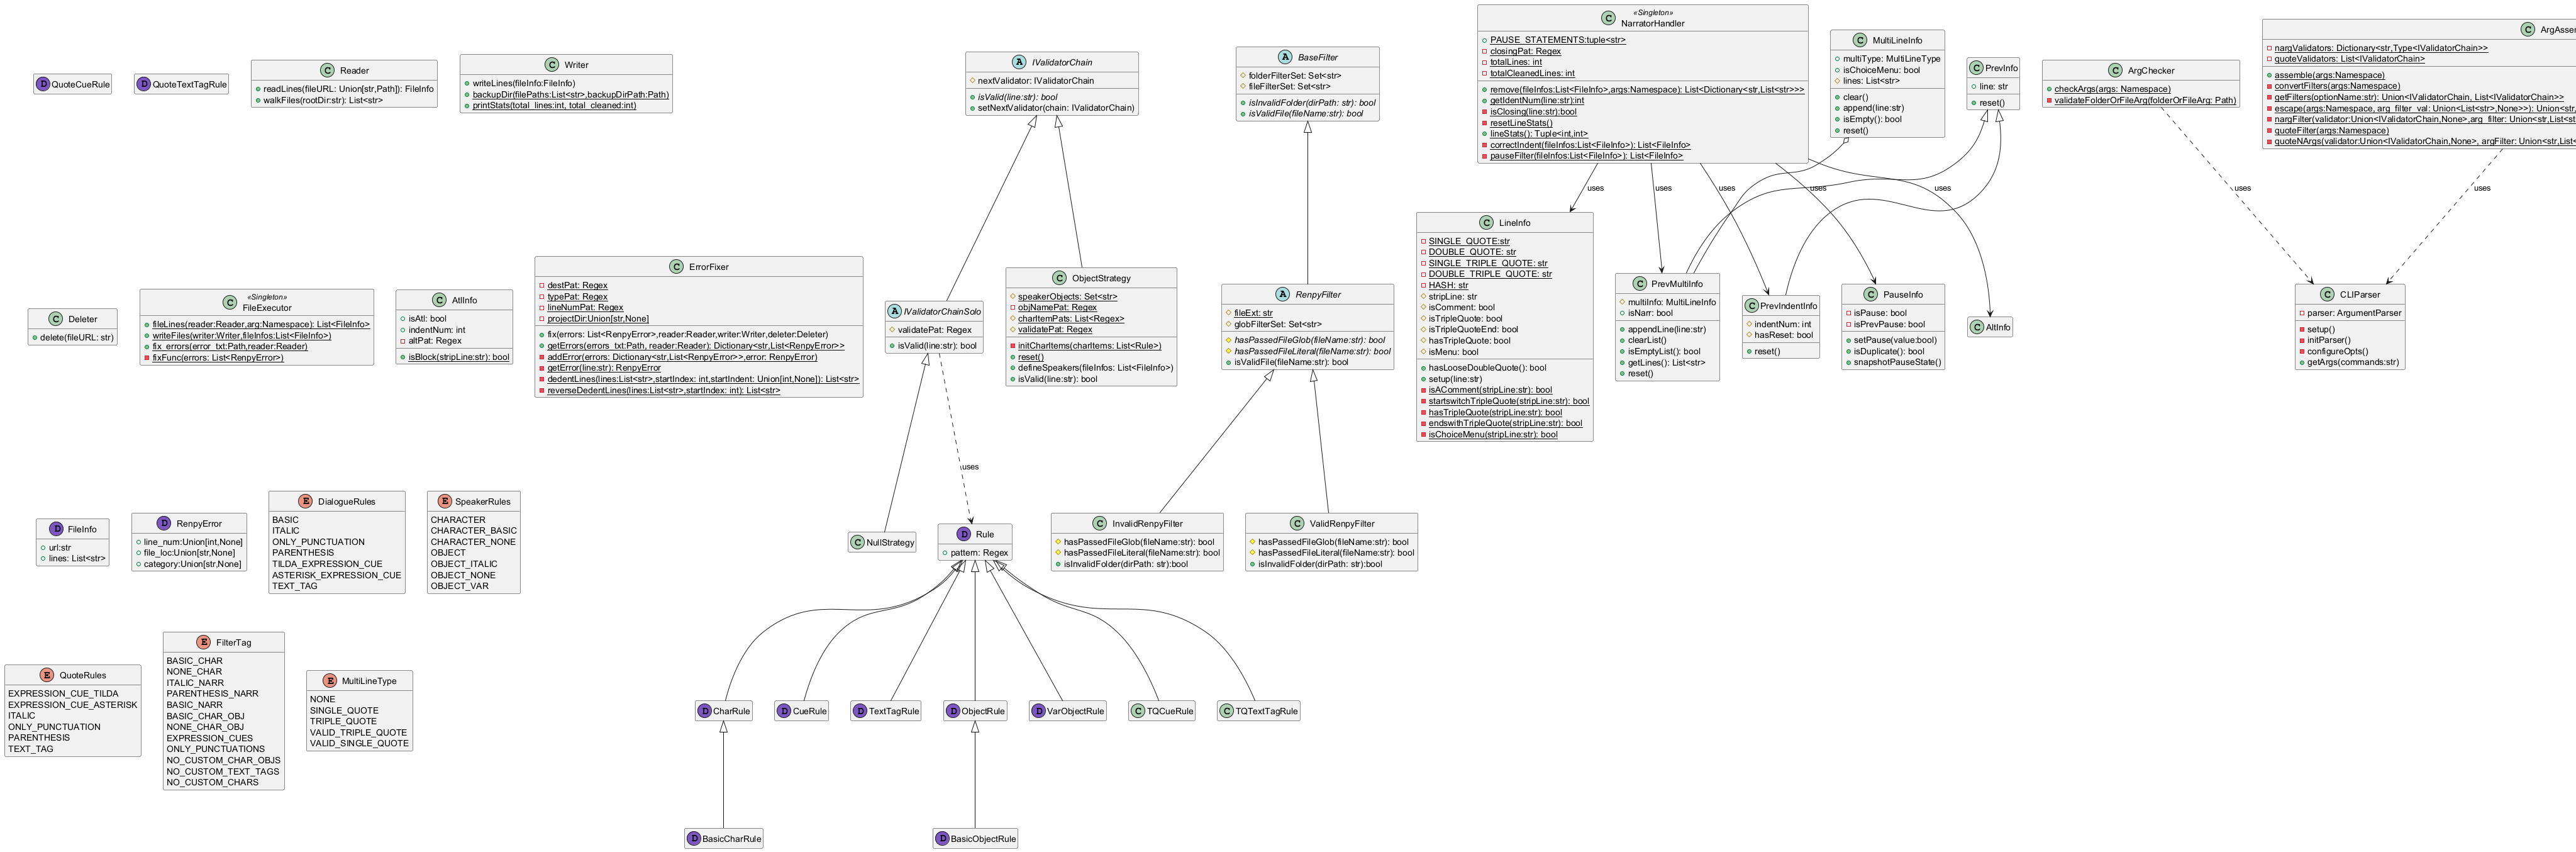
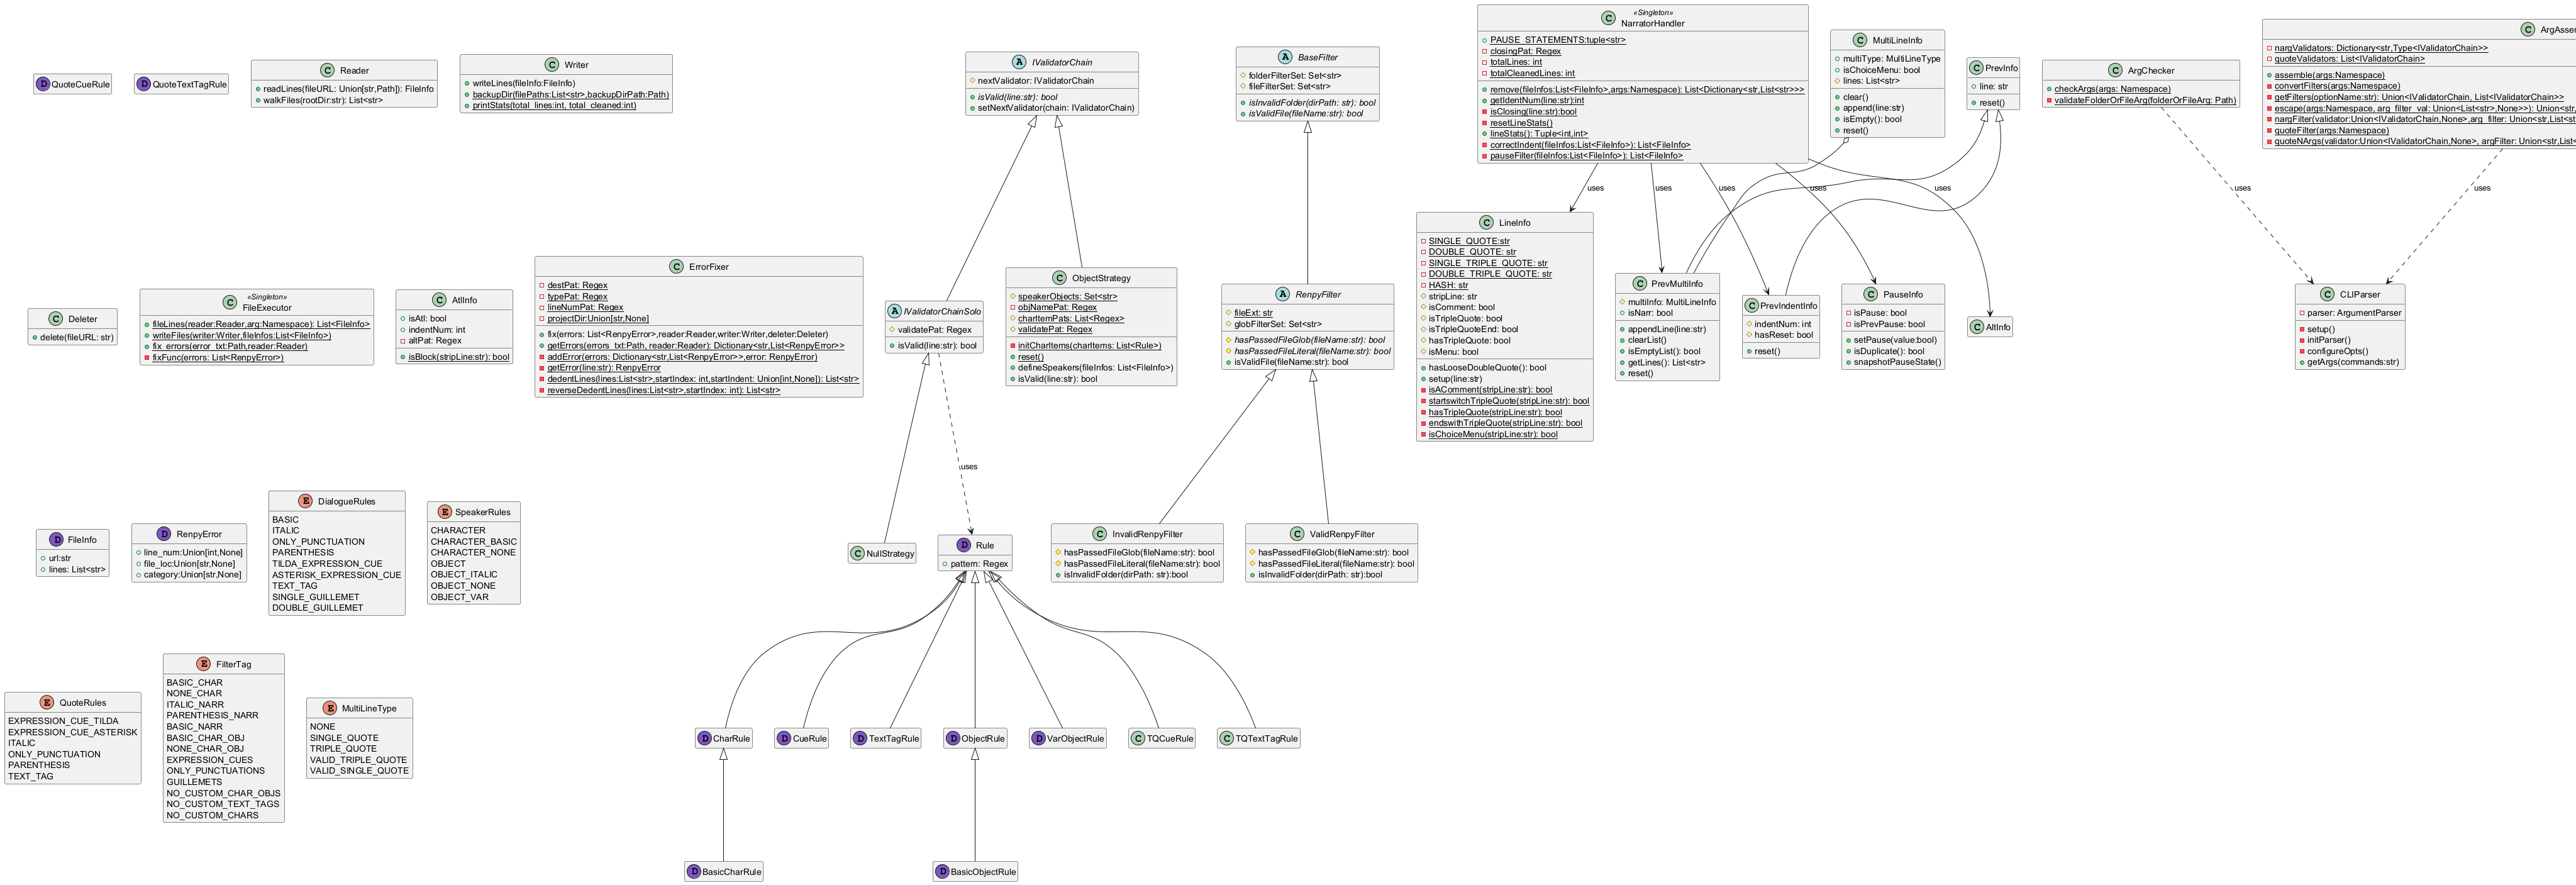
New filter: guillemets. - update class diagram - update COMMANDS.md - update tests

diff --git a/src/lib/validator/rule/rule_patterns.py b/src/lib/validator/rule/rule_patterns.py
@@ -4,6 +4,7 @@ from .basic_char_rule import BasicCharRule
 from .basic_object_rule import BasicObjectRule
 from .quote_cue_rule import QuoteCueRule
 from .quote_text_tag_rule import QuoteTextTagRule
+from .surround_rule import SurroundRule
 from .var_object_rule import VarObjectRule
 from .object_rule import ObjectRule
 from .char_rule import CharRule
@@ -22,7 +23,8 @@ class DialogueRules(Enum):
     # mc "{tag}........................{/tag}"
     # mc "!!!"
     # mc "????"
-    ONLY_PUNCTUATION = Rule(r'^(?:([\'"])(?:(?!\1).)+\1|\w+?) ([\'"])(?:{\w+(?:=[^}]+)?})*\s*[.?!]+\s*(?:{/\w+})*\s*(?:\2|\2\s*with .+|\2\s*\([^)]+\))?$')
+    ONLY_PUNCTUATION = Rule(
+        r'^(?:([\'"])(?:(?!\1).)+\1|\w+?) ([\'"])(?:{\w+(?:=[^}]+)?})*\s*[.?!]+\s*(?:{/\w+})*\s*(?:\2|\2\s*with .+|\2\s*\([^)]+\))?$')
     # mc "(It's got to be here somewhere.)"
     # mc "{tag}(It's got to be here somewhere.){/tag}"
     PARENTHESIS = Rule(
@@ -33,6 +35,10 @@ class DialogueRules(Enum):
     # mc *smiles*
     # mc "{tag}*smiles*{/tag}"
     EXPRESSION_CUE_ASTERISK = CueRule(r'\*')
+    # mc "«I am currently thinking right now!»"
+    DOUBLE_GUILLEMET = SurroundRule('«', '»')
+    # mc "‹I am currently thinking right now!›"
+    SINGLE_GUILLEMET = SurroundRule('‹', '›')
     # elnor "{fzs}This is a small bold font tag.{/fzs}"
     # gabby "{ba=100}Big bold asterisk text!{/ba}"
     TEXT_TAG = TextTagRule
@@ -52,7 +58,8 @@ class SpeakerRules(Enum):
     OBJECT_ITALIC = [Rule(r"what_italic\s*=\s*True"), Rule(r"what_prefix\s*=\s*([\"'])\{i}\1"),
                      Rule(r"(?:Dynamic)?Character\(\s*(['\"])\s*\{i\}[^\"']+\{/?i\}\s*\1")]
     # Character(None)
-    OBJECT_NONE = [Rule(r"(?:Dynamic)?Character\s*\(\s*(?:name\s*=\s*)?None.*\)"), Rule(r"(?:Dynamic)?Character\s*\(\s*\)"),
+    OBJECT_NONE = [Rule(r"(?:Dynamic)?Character\s*\(\s*(?:name\s*=\s*)?None.*\)"),
+                   Rule(r"(?:Dynamic)?Character\s*\(\s*\)"),
                    Rule(r"(?:Dynamic)?Character\s*\(\s*[\"']\s*[\"']\s*.*\)"),
                    Rule(r"(?:Dynamic)?Character\s*\((?!\s*[\"']{2}|\s*name\s?=|\s*None)(?:\s*[\w_]+\s*=\s*.+)+\)"),
                    # Filters empty translation function, '_()' and '_("")'
@@ -61,10 +68,13 @@ class SpeakerRules(Enum):
     # narrator_variable = Character(...)
     OBJECT_VAR = VarObjectRule
 
+
 class QuoteRules(Enum):
     EXPRESSION_CUE_TILDA = QuoteCueRule('~')
     EXPRESSION_CUE_ASTERISK = QuoteCueRule(r'\*')
-    ITALIC = Rule(r'^(?:{\w+(?:=[^}]+)?})*\s*\{i\}((?:(?!\{/?i\}).)+)(?:\{/?i\})?\s*(?:[.?!]?(?:{/\w+})*|(?:{/\w+})*[/?!]?)$')
+    ITALIC = Rule(
+        r'^(?:{\w+(?:=[^}]+)?})*\s*\{i\}((?:(?!\{/?i\}).)+)(?:\{/?i\})?\s*(?:[.?!]?(?:{/\w+})*|(?:{/\w+})*[/?!]?)$')
     ONLY_PUNCTUATION = Rule(r'^(?:{\w+(?:=[^}]+)?})*\s*[.?!]+\s*(?:{/\w+})*$')
-    PARENTHESIS = Rule(r'^(?:{\w+(?:=[^}]+)?})*\s*(?:\\|\\[\'"])?\([^()]+(?:\\?\)(?:\\[\'"])?)?\s*(?:[.?!]?(?:{/\w+})*|(?:{/\w+})*[/?!]?)$')
+    PARENTHESIS = Rule(
+        r'^(?:{\w+(?:=[^}]+)?})*\s*(?:\\|\\[\'"])?\([^()]+(?:\\?\)(?:\\[\'"])?)?\s*(?:[.?!]?(?:{/\w+})*|(?:{/\w+})*[/?!]?)$')
     TEXT_TAG = QuoteTextTagRule

diff --git a/tests/validator/test_dialogue.py b/tests/validator/test_dialogue.py
@@ -291,6 +291,9 @@ class TestDialogue(unittest.TestCase):
             # Basic narrator with escaped quotes
             265: '"It is almost \\"7:00\\" now!"',
             266: "'It is almost \\'7:00\\' now!'",
+            # Guillemets
+            267: 'mc "«I am currently thinking about things!»"',
+            268: 'mc "‹I am currently thinking about things!›"',
         }
 
     def validate_lines(self):
@@ -345,3 +348,11 @@ class TestDialogue(unittest.TestCase):
     def test_only_punctuations(self):
         obj = validate_solo(DialogueRules.ONLY_PUNCTUATION.value)
         self.start(obj, [244, 245, 246, 247, 250, 251, 256,261])
+
+    def test_double_guillemet(self):
+        obj = validate_solo(DialogueRules.DOUBLE_GUILLEMET.value)
+        self.start(obj, [267])
+
+    def test_single_guillemet(self):
+        obj = validate_solo(DialogueRules.SINGLE_GUILLEMET.value)
+        self.start(obj, [268])

diff --git a/src/lib/validator/rule/surround_rule.py b/src/lib/validator/rule/surround_rule.py
@@ -1,0 +1,7 @@
+from .rule import Rule
+
+class SurroundRule(Rule):
+    """Holds generic validator filter rule for surrounding an entire dialogue with a single open/close symbol."""
+
+    def __init__(self, open_symbol:str, close_symbol:str):
+        super().__init__(rf"(?:(['\"])(?:(?!\1).)+\1|\w+?) ([\"'])(?:{{\w+(?:=[^}}]+)?}})*\s*{open_symbol}[^{open_symbol}]+{close_symbol}\s*(?:(?:{{/\w+}})*[.?!]?|[.?!]?(?:{{/\w+}})*)\s*\2(?:\s*with .+|\s*\([^)]+\))?")

diff --git a/tests/arg/test_arg_assembler.py b/tests/arg/test_arg_assembler.py
@@ -40,7 +40,7 @@ class TestArgAssembler(unittest.TestCase):
             FilterTag.ITALIC.value,
             FilterTag.NARRATOR.value,
         ]
-        self.start(args, 8)
+        self.start(args, 10)
 
     def test_nargs(self):
         args = [
@@ -54,6 +54,7 @@ class TestArgAssembler(unittest.TestCase):
             FilterTag.ONLY_PUNCTUATIONS.value,
             FilterTag.NONE_CHAR.value,
             FilterTag.NONE_CHAR_OBJ.value,
+            FilterTag.GUILLEMETS.value,
             FilterTag.NO_CUSTOM_CHARS.value,
             "ten",
             "narrator",
@@ -81,6 +82,7 @@ class TestArgAssembler(unittest.TestCase):
             FilterTag.NONE_CHAR_OBJ.value,
             FilterTag.EXPRESSION_CUES.value,
             FilterTag.ONLY_PUNCTUATIONS.value,
+            FilterTag.GUILLEMETS.value,
             FilterTag.NONE_CHAR.value,
             "--regex",
             FilterTag.NO_CUSTOM_CHARS.value,
@@ -104,6 +106,7 @@ class TestArgAssembler(unittest.TestCase):
             FilterTag.EXPRESSION_CUES.value,
             FilterTag.ONLY_PUNCTUATIONS.value,
             FilterTag.NONE_CHAR.value,
+            FilterTag.GUILLEMETS.value,
             FilterTag.NO_CUSTOM_CHARS.value,
             "ten{3}",
             "seco.+",
@@ -124,6 +127,7 @@ class TestArgAssembler(unittest.TestCase):
             FilterTag.NONE_CHAR_OBJ.value,
             FilterTag.ONLY_PUNCTUATIONS.value,
             FilterTag.NONE_CHAR.value,
+            FilterTag.GUILLEMETS.value,
         ]
         self.start(args,5)
 

diff --git a/src/lib/arg/arg_assembler.py b/src/lib/arg/arg_assembler.py
@@ -93,6 +93,9 @@ class ArgAssembler:
                 return IValidatorChainSolo(DialogueRules.ONLY_PUNCTUATION.value)
             case FilterTag.NONE_CHAR.value:
                 return IValidatorChainSolo(SpeakerRules.CHARACTER_NONE.value)
+            case FilterTag.GUILLEMETS.value:
+                return [IValidatorChainSolo(DialogueRules.SINGLE_GUILLEMET.value),
+                        IValidatorChainSolo(DialogueRules.DOUBLE_GUILLEMET.value)]
             case _:
                 return IValidatorChainSolo(DialogueRules.BASIC.value)
 

diff --git a/src/lib/arg/cli_parser.py b/src/lib/arg/cli_parser.py
@@ -204,7 +204,8 @@ class CLIParser:
             FilterTag.NONE_CHAR_OBJ.value: "Keep empty Character objects.",
             FilterTag.EXPRESSION_CUES.value: "Keep expression cues. Ex: *smiles*, ~raises eyebrows~.",
             FilterTag.ONLY_PUNCTUATIONS.value: "Keeps dialogue containing only punctuation marks. Ex: '......'",
-            FilterTag.NONE_CHAR.value: "Keeps empty quoted speakers not saved to a Character object."
+            FilterTag.NONE_CHAR.value: "Keeps empty quoted speakers not saved to a Character object.",
+            FilterTag.GUILLEMETS.value: "Keeps dialogue surrounded by Guillemets (double & single)."
         }
         self.__add_no_filters(no_filters)
         self.__add_filter_arg(

diff --git a/src/lib/custom_types.py b/src/lib/custom_types.py
@@ -12,6 +12,7 @@ class FilterTag(Enum):
     NONE_CHAR_OBJ = "--none-char-obj"
     EXPRESSION_CUES = "--cues"
     ONLY_PUNCTUATIONS = "--punctuations"
+    GUILLEMETS = "--guillemets"
     NO_CUSTOM_TEXT_TAGS = "--no-custom-tags"
     NO_CUSTOM_CHARS = "--no-custom-chars"
     NO_CUSTOM_CHAR_OBJS = "--no-custom-char-objs"

diff --git a/COMMANDS.md b/COMMANDS.md
@@ -31,7 +31,7 @@ MyRenpyProject/
 
 - If a `folder` is provided, *nonarrate* will operate on `.rpy` files located in subdirectories too.
 - If `errors.txt` file is provided, *nonarrate* will *attempt* to fix the errors mentioned in the file.
-  - **Nonarrate will not fix all errors!** See *[ERROR_TYPE.md](./ERROR_TYPES.md)* for list of fixes.
+    - **Nonarrate will not fix all errors!** See *[ERROR_TYPE.md](./ERROR_TYPES.md)* for list of fixes.
 - If `errors.txt` file is provided, **all options you provide will be ignored!**
 - If you need help using nonarrate, see [INSTRUCTIONS](./INSTRUCTIONS.md).
 
@@ -60,12 +60,13 @@ nonarrate C:\mycoolgame\errors.txt
 Show removed narrated scenes by pausing.
 
 *nonarrate* will replace narration with a
- [￼`pause`￼ statement](https://www.renpy.org/doc/html/quickstart.html#pause-statement).
+[￼`pause`￼ statement](https://www.renpy.org/doc/html/quickstart.html#pause-statement).
 This allows you to see narrated scenes without their dialogue
 *(so you can see just the image/CG/animation/etc.)*.
 To enable this feature, use this option.
 
-**Side Note:** Since narrated dialogues are replaced by [￼`pause`￼ statements](https://www.renpy.org/doc/html/quickstart.html#pause-statement), there
+**Side Note:** Since narrated dialogues are replaced by [￼
+`pause`￼ statements](https://www.renpy.org/doc/html/quickstart.html#pause-statement), there
 are some instances where clicking to move forward *feels* like it does nothing.
 In reality, the next sequence is *also* a pause statement.
 
@@ -166,7 +167,7 @@ Nonarrate will ignore certain files by default. See [IGNORED_FILES.md](./IGNORED
 nonarrate mycoolgame\game --valid-globs '[0-9][0-9][a-zA-Z]*'
 ```
 
-Use *.rpy* files matching globs. 
+Use *.rpy* files matching globs.
 
 nonarrate will *only* use files matching any of the file globs. Can be used with `--valid-files`.
 
@@ -187,12 +188,13 @@ nonarrate mycoolgame\game --invalid-globs '[0-9][0-9][a-zA-Z]*'
 Ignore *.rpy* files using globs.
 
 nonarrate will ignore files that match any of the specified file globs. Can be used
-with `--invalid-files`. 
+with `--invalid-files`.
 
 See [Python's fnmatch library](https://docs.python.org/3/library/fnmatch.html#module-fnmatch)
 for list of available globs. **Globs**: `*`, `?`, `[...]`
 
-***NOTE: Nonarrate uses a set of globs to ignore files by default. See [IGNORED_FILES.md](./IGNORED_FILES.md) for list.**
+***NOTE: Nonarrate uses a set of globs to ignore files by default. See [IGNORED_FILES.md](./IGNORED_FILES.md) for list.
+**
 ***NOTE: Do *not* include `.rpy`. nonarrate will automatically assume this file type!**
 
 ___
@@ -203,7 +205,8 @@ ___
 
 These filters deal with the **speaker** portion of a dialogue box.
 
-***NOTE:** [`DynamicCharacter()`](https://www.renpy.org/wiki/renpy/doc/reference/functions/DynamicCharacter) is an outdated usage of `Character()` and is also supported by nonarrate!
+***NOTE:** [`DynamicCharacter()`](https://www.renpy.org/wiki/renpy/doc/reference/functions/DynamicCharacter) is an
+outdated usage of `Character()` and is also supported by nonarrate!
 
 | Commands                              | Script Example                                                                                                                          | Description                                                                                           |
 |---------------------------------------|-----------------------------------------------------------------------------------------------------------------------------------------|-------------------------------------------------------------------------------------------------------|
@@ -224,7 +227,8 @@ nonarrate mycoolgame\game --basic-char-obj
 Keep [default narrators](DEFAULT_NARRATORS.md) saved to a `Character` object.
 
 By default, *nonarrate*
-will remove *all* [default narrators](DEFAULT_NARRATORS.md) saved to a character object. Use this option to disable this filter.
+will remove *all* [default narrators](DEFAULT_NARRATORS.md) saved to a character object. Use this option to disable this
+filter.
 
 ***—no-custom-char-objs***, ***—ncco*** `<speaker name>...`
 
@@ -238,7 +242,8 @@ Removes speaker(s) saved to a `Character` object by their in-game name.
 Sometimes, a narrator takes on the form of a character in game. Instead of being explicitly named *Narrator*, in-game,
 the narrator can introduce itself as *Emily*, *Dev*, *The Chosen One*, or anything else… in-game.
 
-**Side Note:** This option can use **REGEX**. Use `--regex` to enable this feature.  See [REGEX Examples](#regex-examples) for examples.
+**Side Note:** This option can use **REGEX**. Use `--regex` to enable this feature.
+See [REGEX Examples](#regex-examples) for examples.
 
 ***—no-custom-char-var-objs***, ***—nccvo*** `<speaker name>...`
 
@@ -254,7 +259,8 @@ Sometimes it is easier to remove a narrator based on the variable's name the Cha
 To find the variable name, you must look into the `.rpy` files. A variable is defined as follows:
 `define <variable-name> = Character` or `default <variable-name> = Character`.
 
-**Side Note:** This option can use **REGEX**. Use `--regex` to enable this feature.  See [REGEX Examples](#regex-examples) for examples.
+**Side Note:** This option can use **REGEX**. Use `--regex` to enable this feature.
+See [REGEX Examples](#regex-examples) for examples.
 
 ***—basic-char***
 
@@ -279,7 +285,8 @@ Empty character objects, written as any of the following:
 - `Character()`,
 - `Character(None)`
 - `Character("")`
-- Or simply **NOT** using the [`name` parameter](<https://www.renpy.org/doc/html/dialogue.html#Character>), `Character(color="#FFFF00")`
+- Or simply **NOT** using the [`name` parameter](<https://www.renpy.org/doc/html/dialogue.html#Character>),
+  `Character(color="#FFFF00")`
 
 These character objects are often either used as a blank speaker or are assigned
 an actual speaker name later *(often used when renaming a character later in
@@ -296,7 +303,8 @@ Removes a speaker introduced in quotes.
 
 Removes a speaker explicitly written in quotes alongside their dialogue and **NOT** saved to a `Character` object.
 
-**Side Note:** This option can use **REGEX**. Use `--regex` to enable this feature.  See [REGEX Examples](#regex-examples) for examples.
+**Side Note:** This option can use **REGEX**. Use `--regex` to enable this feature.
+See [REGEX Examples](#regex-examples) for examples.
 
 - - -
 
@@ -304,14 +312,15 @@ Removes a speaker explicitly written in quotes alongside their dialogue and **NO
 
 These filters deal with the **dialogue** portion of dialogue box.
 
-| Commands                | Script Examples                                                                      | Description                                                                                                  |
-|-------------------------|--------------------------------------------------------------------------------------|--------------------------------------------------------------------------------------------------------------|
-| --narr                  | “I’m the narrator of this game”                                                      | Dialogues without a speaker                                                                                  |
-| --italic                | mc “{i}Maybe there’s food left over.{/i}" <br>mc "{tag}{i}Lesson learned!{/i}{/tag}" | Italics. Thinking dialogue.                                                                                  |
-| --parenthesis           | mc “(It’s got to be here somewhere.)” <br>mc "{tag}(Opens the car door){/tag}"       | `()`. Thinking/Narrator dialogue                                                                             |
-| --no-custom-tags, --nct | mc “{fzs}A small bold font tag.{/fzs}” <br>mc "{fzs=10}My text is here{/fzs}"        | [Custom text tag.](https://www.renpy.org/doc/html/custom_text_tags.html) Can be used for thoughts/narrative. |
-| --cues                  | mc "\**blushes softly*\*" <br>mc "{tag}\~*jumps*\~{/tag}"                            | Expression cues. \**smiles*\*, \~yawns\~, \*\**taps foot*\*\*                                                |
-| --punctuations          | mc "......" <br>mc "{tag}....{/tag}" <br>mc "!!!" <br>mc "????"                      | Dialogues with only punctuation marks                                                                        |
+| Commands                | Script Examples                                                                                                       | Description                                                                                                  |
+|-------------------------|-----------------------------------------------------------------------------------------------------------------------|--------------------------------------------------------------------------------------------------------------|
+| --narr                  | “I’m the narrator of this game”                                                                                       | Dialogues without a speaker                                                                                  |
+| --italic                | mc “{i}Maybe there’s food left over.{/i}" <br>mc "{tag}{i}Lesson learned!{/i}{/tag}"                                  | Italics. Thinking dialogue.                                                                                  |
+| --parenthesis           | mc “(It’s got to be here somewhere.)” <br>mc "{tag}(Opens the car door){/tag}"                                        | `()`. Thinking/Narrator dialogue                                                                             |
+| --no-custom-tags, --nct | mc “{fzs}A small bold font tag.{/fzs}” <br>mc "{fzs=10}My text is here{/fzs}"                                         | [Custom text tag.](https://www.renpy.org/doc/html/custom_text_tags.html) Can be used for thoughts/narrative. |
+| --cues                  | mc "\**blushes softly*\*" <br>mc "{tag}\~*jumps*\~{/tag}"                                                             | Expression cues. \**smiles*\*, \~yawns\~, \*\**taps foot*\*\*                                                |
+| --punctuations          | mc "......" <br>mc "{tag}....{/tag}" <br>mc "!!!" <br>mc "????"                                                       | Dialogues with only punctuation marks                                                                        |
+| --guillemets            | mc "«I am currently thinking about my situation again.»" <br>mc "‹I am currently thinking about my situation again.›" | Guillements.`›`,`‹`, `«`,`»`                                                                                 |
 
 ***—narr***
 
@@ -333,6 +342,12 @@ Keep dialogues wrapped entirely in a parenthesis
 Parentheses are used to indicate thoughts. It’s often used for narration.
 Use this option to allow this feature.
 
+***--guillemets***
+
+Keeps dialogue surrounded by Guillemets
+
+The symbols for guillemets are `‹`, `›`, `«` and `»`.
+
 ***—no-custom-tags***, ***—nct*** `<tag name>...`
 
 ```bash
@@ -343,7 +358,8 @@ nonarrate mycoolgame\game --no-custom-tags fzs b color
 Removes dialogue wrapped entirely in a custom text tag
 
 Developers can create their own [custom text tags](https://www.renpy.org/doc/html/custom_text_tags.html), adding
-custom style properties to them like `{color}` or `{font}`. Use this option to remove dialogue completely surrounded by a custom text tag.
+custom style properties to them like `{color}` or `{font}`. Use this option to remove dialogue completely surrounded by
+a custom text tag.
 
 This option also automatically removes the `=` variants of a custom text tag.
 
@@ -352,7 +368,8 @@ This option also automatically removes the `=` variants of a custom text tag.
 nonarrate mycoolgame\game --no-custom-tags fzs
 ```
 
-**Side Note:** This option can use **REGEX**. Use `--regex` to enable this feature.  See [REGEX Examples](#regex-examples) for examples.
+**Side Note:** This option can use **REGEX**. Use `--regex` to enable this feature.
+See [REGEX Examples](#regex-examples) for examples.
 
 ***--cues***
 
@@ -383,7 +400,8 @@ By default, dialogue consisting of only punctuations are removed. To keep them, 
 
 ## REGEX Examples
 
-*nonarrate* supports all regular expressions available in Python. See [Python REGEX Documentation](https://docs.python.org/3/library/re.html#regular-expression-syntax) for more info.
+*nonarrate* supports all regular expressions available in Python.
+See [Python REGEX Documentation](https://docs.python.org/3/library/re.html#regular-expression-syntax) for more info.
 
 ```bash
 # Remove speakers: Wilson, Greyes, and Grayes character objects